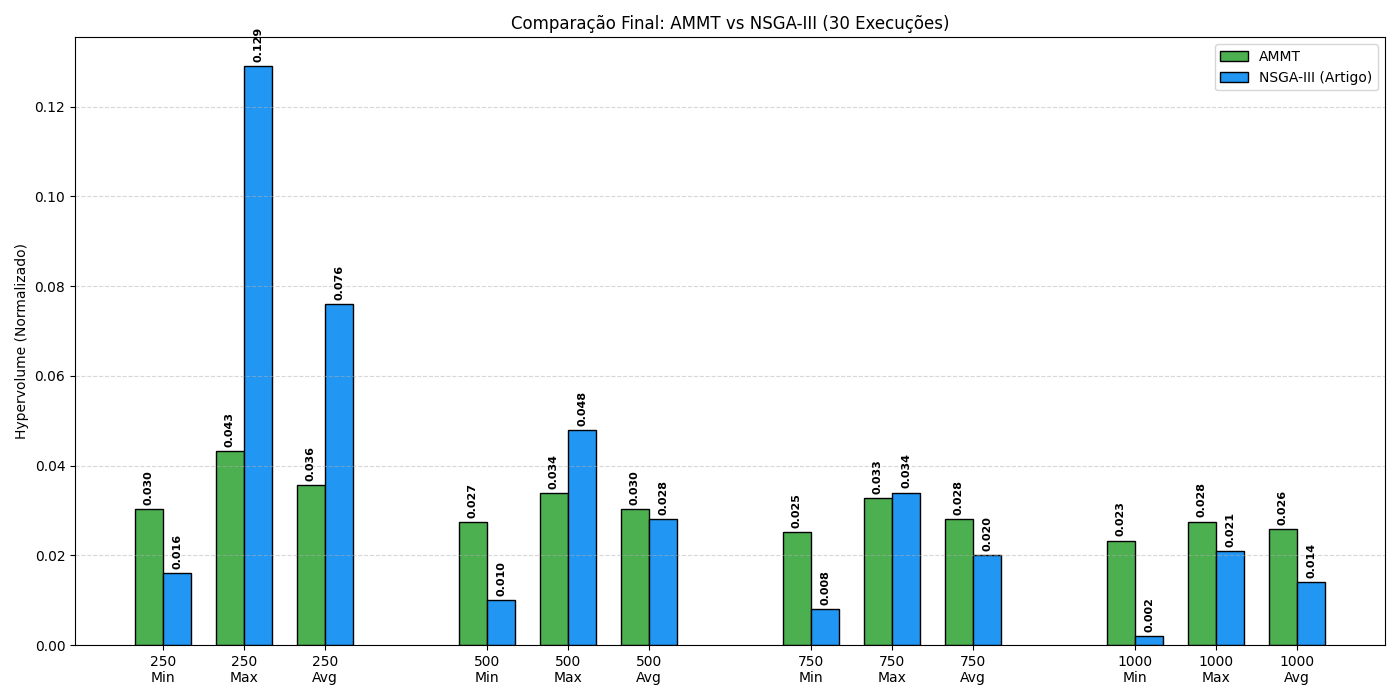
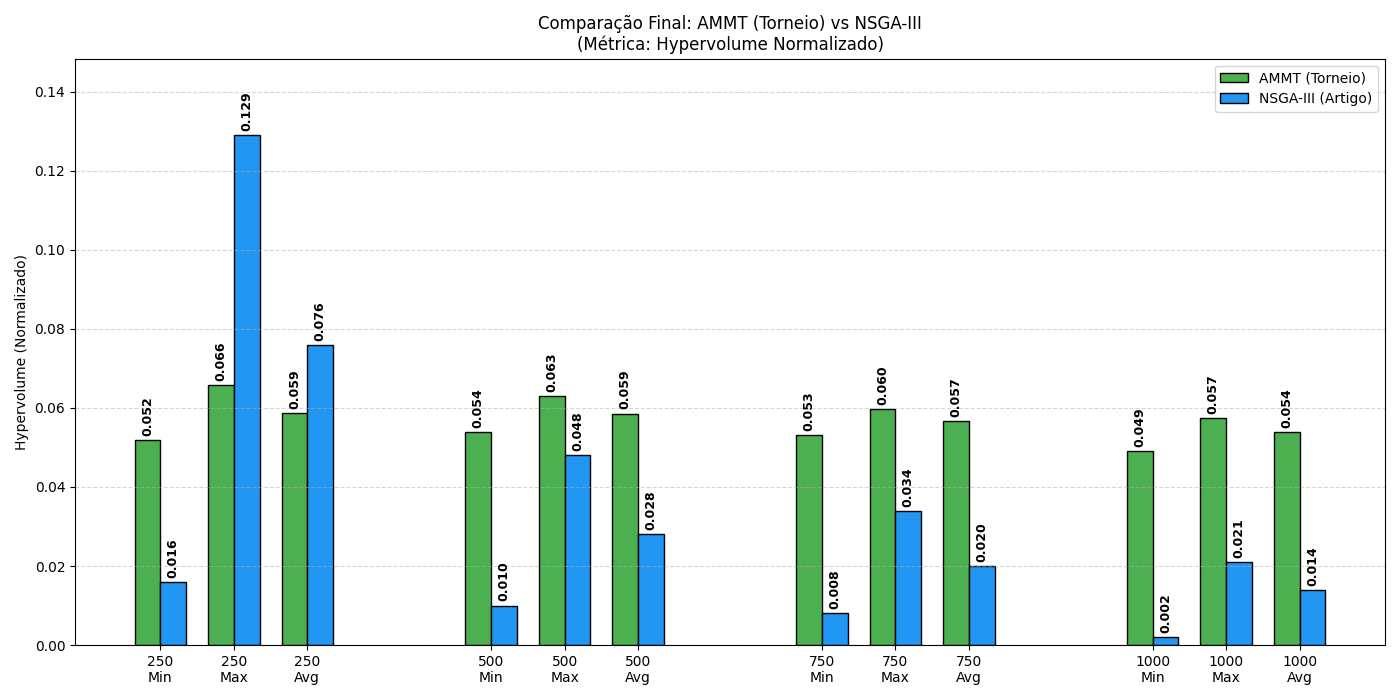
roleta

diff --git a/plot_final_cpp.py b/plot_final_cpp.py
@@ -8,10 +8,9 @@ import os
 
 # --- CONFIGURAÇÕES ---
 INPUT_FILE = "fronteira_pareto_completa.csv"
-OUTPUT_IMAGE = "comparacao_final_hv.png"
+OUTPUT_IMAGE = "comparacao_final_hv_roleta.png" # Alterei o nome para não sobrescrever o anterior
 
 # --- DADOS DO ARTIGO (E-NSGA-III - Fig. 3) ---
-# Valores aproximados extraídos visualmente do paper
 paper_data = {
     250:  {'min': 0.016, 'max': 0.129, 'avg': 0.076}, 
     500:  {'min': 0.010, 'max': 0.048, 'avg': 0.028},
@@ -21,93 +20,73 @@ paper_data = {
 
 # --- FUNÇÃO PRINCIPAL ---
 def main():
-    # 1. Verifica e Carrega o CSV
     if not os.path.exists(INPUT_FILE):
         print(f"ERRO: O arquivo '{INPUT_FILE}' não foi encontrado.")
         return
 
-    print(f"Lendo '{INPUT_FILE}'... (Isso pode levar alguns segundos)")
+    print(f"Lendo '{INPUT_FILE}'...")
     try:
         df = pd.read_csv(INPUT_FILE)
     except Exception as e:
         print(f"Erro ao ler CSV: {e}")
         return
 
-    # Estrutura para guardar resultados: { tamanho: { 'Roleta': [], 'Torneio': [] } }
     results = {}
-
-    # 2. Configura o Cálculo de Hypervolume
-    # Ponto de referência (0,0,0) pois inverteremos os dados para minimização
     ref_point = np.array([0.0, 0.0, 0.0])
     ind_hv = HV(ref_point=ref_point)
     nds = NonDominatedSorting()
 
-    # 3. Processa cada Grupo (Size, Selection, Run)
-    # Agrupa os dados para processar cada execução individualmente
     grouped = df.groupby(['Size', 'Selection', 'Run'])
     total_groups = len(grouped)
     count = 0
 
-    print(f"Processando {total_groups} execuções...")
+    print(f"Calculando Hypervolume para {total_groups} execuções...")
 
     for name, group in grouped:
         size, selection, run = name
         count += 1
         
-        # Feedback de progresso a cada 10%
         if count % (total_groups // 10 + 1) == 0:
             print(f"Progresso: {int(count/total_groups*100)}%...")
 
-        # Extrai os objetivos (Lucros)
         points = group[['Obj1', 'Obj2', 'Obj3']].values
-
-        # --- NORMALIZAÇÃO ---
-        # Lucro Máximo Teórico = Num_Itens * 100
+        
+        # Normalização
         max_theoretical = size * 100.0
         norm_points = points / max_theoretical
-
-        # --- FILTRAGEM DE PARETO ---
-        # Pymoo trabalha com MINIMIZAÇÃO. Invertemos os sinais.
-        # Melhor fitness = -1.0, Pior = 0.0
         neg_points = norm_points * -1
 
-        # Encontra fronteiras não dominadas
+        # Filtra Pareto
         fronts = nds.do(neg_points)
-        
         hv = 0.0
         if len(fronts) > 0:
-            # Pega apenas a primeira fronteira (índice 0)
             pareto_front = neg_points[fronts[0]]
-            # Calcula HV
             hv = ind_hv(pareto_front)
 
-        # Guarda o resultado
         if size not in results: results[size] = {}
         if selection not in results[size]: results[size][selection] = []
         results[size][selection].append(hv)
 
-    # 4. Prepara Dados para o Gráfico
+    # --- PLOTAGEM ---
     print("\nGerando Gráfico...")
-    
     sizes_list = [250, 500, 750, 1000]
-    
-    # Listas "achatadas" para o matplotlib
     ammt_vals = [] 
     paper_vals = []
     x_labels = []
     
-    # Escolha qual método do seu código será comparado (Torneio costuma ser melhor em escala)
-    metodo_escolhido = 'Torneio' 
-    # Verifica se existe dados de Torneio, senão usa Roleta
-    # (Adaptação caso seu CSV só tenha um dos dois)
-    has_torneio = False
+    # --- MUDANÇA AQUI: FORÇANDO 'Roleta' ---
+    metodo_escolhido = 'Roleta' 
+    
+    # Verifica se existe dados de Roleta, senão tenta Torneio como fallback
+    has_roleta = False
     for s in sizes_list:
-        if s in results and 'Torneio' in results[s]:
-            has_torneio = True
+        if s in results and 'Roleta' in results[s]:
+            has_roleta = True
             break
     
-    if not has_torneio:
-        metodo_escolhido = 'Roleta'
+    if not has_roleta:
+        print("AVISO: Dados de 'Roleta' não encontrados no CSV. Usando 'Torneio'.")
+        metodo_escolhido = 'Torneio'
 
     print(f"\n--- RESULTADOS FINAIS ({metodo_escolhido}) ---")
     
@@ -126,19 +105,17 @@ def main():
         p = paper_data[s]
         paper_vals.extend([p['min'], p['max'], p['avg']])
         
-        # Labels para o eixo X
         x_labels.extend([f"{s}\nMin", f"{s}\nMax", f"{s}\nAvg"])
         
         print(f"[{s} Itens] AMMT: {my_avg:.4f} (Min:{my_min:.4f} Max:{my_max:.4f})")
 
-    # 5. Plotagem
-    # Posições das barras
-    group_gap = 1.5 # Espaço entre grupos de tamanho
+    # Plotagem
+    group_gap = 1.5
     current_pos = 0
     plot_pos = []
     
     for _ in sizes_list:
-        for _ in range(3): # Min, Max, Avg
+        for _ in range(3):
             plot_pos.append(current_pos)
             current_pos += 1
         current_pos += group_gap
@@ -148,7 +125,7 @@ def main():
 
     fig, ax = plt.subplots(figsize=(14, 7))
 
-    # Barra Verde (AMMT)
+    # Barra Verde (Seu Código - Roleta)
     rects1 = ax.bar(plot_pos - width/2, ammt_vals, width, 
                     label=f'AMMT ({metodo_escolhido})', color='#4CAF50', edgecolor='black')
     
@@ -156,19 +133,16 @@ def main():
     rects2 = ax.bar(plot_pos + width/2, paper_vals, width, 
                     label='NSGA-III (Artigo)', color='#2196F3', edgecolor='black')
 
-    # Estilização
     ax.set_ylabel('Hypervolume (Normalizado)')
-    ax.set_title(f'Comparação Final: AMMT ({metodo_escolhido}) vs NSGA-III\n(Métrica: Hypervolume Normalizado)')
+    ax.set_title(f'Comparação: AMMT ({metodo_escolhido}) vs NSGA-III\n(Métrica: Hypervolume Normalizado)')
     ax.set_xticks(plot_pos)
     ax.set_xticklabels(x_labels)
     ax.legend()
     ax.grid(axis='y', linestyle='--', alpha=0.5)
     
-    # Ajuste de limite Y para caber os números
     max_val = max(max(ammt_vals), max(paper_vals))
     ax.set_ylim(0, max_val * 1.15)
 
-    # Função para colocar valores nas barras
     def autolabel(rects):
         for rect in rects:
             height = rect.get_height()
